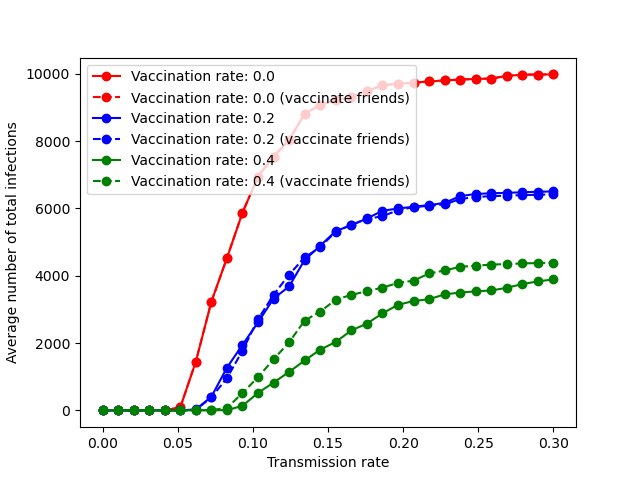
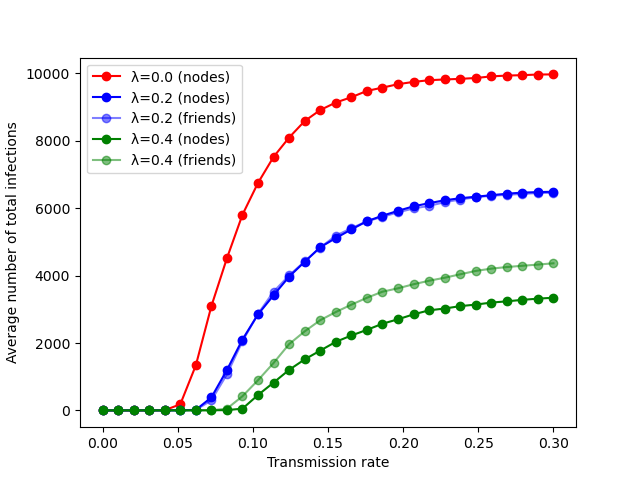
complete wk4 assignments.

diff --git a/wk4_vaccine.py b/wk4_vaccine.py
@@ -37,7 +37,7 @@ def vaccine_edgels(edge_ls, v, n, vacc_friend=False):
     if not vacc_friend:
         nodes_to_remove = nodes_chosen
     else:
-        nodes_to_remove = sample_friend_to_remove(edge_ls, nodes_chosen, n)
+        nodes_to_remove = sample_friends_to_remove(edge_ls, nodes_chosen, n)
     
     # Create a mask to keep edges where neither node is removed
     mask = np.isin(edge_ls, nodes_to_remove)
@@ -47,22 +47,26 @@ def vaccine_edgels(edge_ls, v, n, vacc_friend=False):
     updated_edge_ls = edge_ls[mask]
     
     print(updated_edge_ls.shape)
-    print(f"Removed {n_remove} nodes ({v*100:.2f}%) from the network.")
+    print(f"Removed {len(nodes_to_remove)} nodes ({v*100:.2f}%) from the network.")
     return updated_edge_ls
 
 
 
 
-def sample_friend_to_remove(edge_ls, nodes_chosen, n):
+def sample_friends_to_remove(edge_ls, nodes_chosen, n):
     """Sample the set of randomly nominated friends to vaccinate."""
     adj_ls = edge_to_adj_ls(edge_ls, n)
     friends_to_remove = []
     for i in nodes_chosen:
-        if len(adj_ls[i]) > 0: # if the node has friends
-            friend_chosen = np.random.choice(list(adj_ls[i]))
-            friends_to_remove.append(friend_chosen)
+        # if the node no friends, skip and resample
+        while len(adj_ls[i]) == 0:
+            i = np.random.choice(n)
+        
+        friend_chosen = np.random.choice(list(adj_ls[i]))
+        friends_to_remove.append(friend_chosen)
 
     return friends_to_remove
+
 
 def edge_to_adj_ls(edge_ls, n):
     """Convert edge list to adjacency list."""
@@ -75,51 +79,45 @@ def edge_to_adj_ls(edge_ls, n):
 
 
 
-if __name__=="__main__":
-        
+if __name__ == '__main__':
+    """ Vaccination of nodes at rate lambda = 0.0, 0.2, 0.4."""
     n = 10000
     mean = 20
     v_ary = [0.0, 0.2, 0.4]
     colorscheme = ['r', 'b', 'g']
+
     lam_ary = np.linspace(0, 0.3, 30)
-    avg_n = 100
+    avg_n = 1000
 
-
-    # generate one single network edge list
+        # generate one single network edge list
     edge_ls = config_graph_edge_ls(n, deg_dist_poisson(n, mean))
 
     # run simulations for each vaccination rate
     outputs_nodes = np.empty(len(v_ary), dtype=object)
-    outputs_friends = np.empty(len(v_ary), dtype=object)
-
 
     for idx, v in enumerate(v_ary):
         print(f"Processing vaccination rate: {v}")
         if v == 0.0: # no vaccination
             edge_ls_vi = edge_ls 
-            output_nodes = SIR_ci_lambda(n, edge_ls_vi, lam_ary, avg_n, compute_mean=True) # output shape (lam_n,)
-            outputs_nodes[idx] = output_nodes
-            outputs_friends[idx] = output_nodes
-        
         
         else:
             edge_ls = np.random.permutation(edge_ls) # reshuffle the edge list
             edge_ls_vi = vaccine_edgels(edge_ls, v, n) # remove edges connected to vaccinated nodes
-            edge_ls_vj = vaccine_edgels(edge_ls, v, n, vacc_friend=True) # remove edges connected to nominated friends
 
-            output_nodes = SIR_ci_lambda(n, edge_ls_vi, lam_ary, avg_n, compute_mean=True) # output shape (lam_n,)
-            output_friends = SIR_ci_lambda(n, edge_ls_vj, lam_ary, avg_n, compute_mean=True) # output shape (lam_n,)
+        output_nodes = SIR_ci_lambda(n, edge_ls_vi, lam_ary, avg_n, compute_mean=True) # output shape (lam_n,)
+        outputs_nodes[idx] = output_nodes
 
-            outputs_nodes[idx] = output_nodes
-            outputs_friends[idx] = output_friends
         
     # outputs shape (v_n, lam_n)
     # plot the results
     plt.figure()
     for idx, v in enumerate(v_ary):
-        plt.plot(lam_ary, outputs_nodes[idx], "o-", color=colorscheme[idx], label=f"Vaccination rate: {v}")
-        plt.plot(lam_ary, outputs_friends[idx], "o--", color=colorscheme[idx], label=f"Vaccination rate: {v} (vaccinate friends)")
+        plt.plot(lam_ary, outputs_nodes[idx], "o-", color = colorscheme[idx], label=f"v={v} (nodes)")
     plt.xlabel("Transmission rate")
     plt.ylabel("Average number of total infections")
     plt.legend()
     plt.show()
+
+
+
+

diff --git a/wk4_vaccine_approx.py b/wk4_vaccine_approx.py
@@ -1,0 +1,75 @@
+import numpy as np
+import matplotlib.pyplot as plt
+
+from wk2_1_config_model import *
+from wk4_vaccine import *
+
+
+def compute_s_prob_adjls(edge_ls, lambda_, n, tol=1e-6, max_iter=1000):
+    adj_ls = edge_to_adj_ls(edge_ls, n)
+    
+    s = np.random.rand(n)
+    s_prev = np.zeros(n)
+
+    for _ in range(max_iter):
+        if np.allclose(s, s_prev, atol=tol):
+            break
+        s_prev = s.copy()
+
+        for i in range(n):
+            s_j = np.array([s_prev[j] for j in adj_ls[i]])
+            log_terms = np.log(1 - lambda_ + s_j * lambda_)
+            s[i] = np.exp(np.sum(log_terms))
+
+    return s
+
+
+if __name__ == "__main__":
+
+    n = 10000
+    mean = 20
+    v = 0.4
+    lam_ary = np.linspace(0, 0.3, 30)
+    avg_n = 1000
+
+    # empirical simulation
+    edge_ls = config_graph_edge_ls(n, deg_dist_poisson(n, mean))
+    edge_ls_vi = vaccine_edgels(edge_ls, v, n) # remove edges connected to vaccinated nodes
+    
+    edge_ls = np.random.permutation(edge_ls) # reshuffle the edge list
+    edge_ls_vj = vaccine_edgels(edge_ls, v, n, vacc_friend=True) # remove edges connected to nominated friends
+
+    output_nodes = SIR_ci_lambda(n, edge_ls_vi, lam_ary, avg_n, compute_mean=True) # output shape (lam_n,)
+    output_friends = SIR_ci_lambda(n, edge_ls_vj, lam_ary, avg_n, compute_mean=True) # output shape (lam_n,)
+
+    print("Empirical simulation done.")
+
+    # prediction from si_prob
+    s_ary_vi = np.zeros(len(lam_ary))
+    s_ary_vj = np.zeros(len(lam_ary))
+
+    for idx, lambda_ in enumerate(lam_ary):
+        s_vi = compute_s_prob_adjls(edge_ls_vi, lambda_, n)
+        s_vj = compute_s_prob_adjls(edge_ls_vj, lambda_, n)
+        s_ary_vi[idx] = np.mean(s_vi)
+        s_ary_vj[idx] = np.mean(s_vj)
+
+    Nr_ary_vi = (1 - s_ary_vi)*n # output shape (lam_n,)
+    Nr_ary_vj = (1 - s_ary_vj)*n # output shape (lam_n,)
+    
+    print("Theoretical prediction from si probability done.")
+
+
+    # outputs shape (v_n, lam_n)
+    # plot the results
+    plt.figure()
+    plt.plot(lam_ary, output_nodes, "o-", color='tab:blue', label="node (simulation)")
+    plt.plot(lam_ary, Nr_ary_vi, "--", alpha = 0.5, color='tab:blue', label="node (si approx.)")
+    plt.plot(lam_ary, output_friends, "o-", color='tab:orange', label="friends (simulation)")
+    plt.plot(lam_ary, Nr_ary_vj, "--", alpha = 0.5, color='tab:orange', label="friends (si approx.)")
+    plt.xlabel("Transmission rate")
+    plt.ylabel("Average number of total infections")
+    plt.legend()
+    plt.show()
+
+

diff --git a/network_def.py b/network_def.py
@@ -72,6 +72,14 @@ class Network(object):
     def deg_dist(self):
         return np.array([self.deg(i) for i in range(self.n)])
     
+    def remove_nodes(self, i_ary):
+        """Remove nodes with index from i_ary and create a new network object.
+        Create a new copy of network object with nodes removed."""
+        mask = np.ones(self.n, dtype=bool)
+        mask[i_ary] = False
+        new_adj_m = self.adj_m[mask][:, mask]
+
+        return Network(adj_m=new_adj_m)   
 
 
 

diff --git a/wk3_2_crit_thres.py b/wk3_2_crit_thres.py
@@ -47,7 +47,7 @@ def compute_s_prob(network, lambda_, tol=1e-6, max_iter=1000):
             log_terms = np.log(1 - lambda_ + s_j * lambda_)
             s[i] = np.exp(np.sum(log_terms))
 
-    return s
+    return s # shape (n,)
 
 def crit_lambda(network):
     A = network.adj_m
